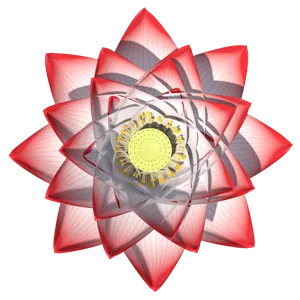
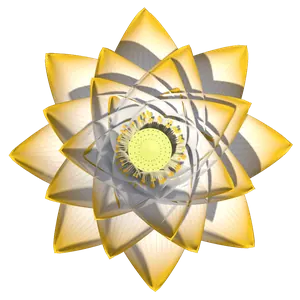
Lotus dourada: caixa de voz e botão flutuante sempre na cor dourada
Claude-Session: https://claude.ai/code/session_01XJ8bKKm3arNhAerQKpBbQ5

Changed region(s): [[0.03, 0.03, 0.99, 0.99]]

diff --git a/src/components/LotusFlower.js b/src/components/LotusFlower.js
@@ -16,8 +16,8 @@ const NUDGE_Y = -24; // um pouco mais para cima
 
 // Cores da flor conforme o assunto da conversa.
 export const MOODS = {
-  // Padrão: a Lotus vermelha com o miolo amarelo.
-  padrao: { back: '#C62828', mid: '#E53935', front: '#FF8A80', center: '#FFE1DE', shineBack: 'rgba(255,170,160,0.5)', shineMid: 'rgba(255,215,210,0.7)', glow: 'rgba(248,113,113,0.30)', seed: '#FFF1C1', icon: '#C62828' },
+  // Padrão: a Lotus dourada (escolhida pelo Evandro), sempre nessa cor.
+  padrao: { back: '#B8860B', mid: '#D4A017', front: '#F5D272', center: '#FFF5D6', shineBack: 'rgba(255,230,160,0.55)', shineMid: 'rgba(255,245,210,0.75)', glow: 'rgba(253,210,100,0.30)', seed: '#FFFFFF', icon: '#A8790A' },
   agro: { back: '#2E9E62', mid: '#4CBF7E', front: '#A7E8BF', center: '#E6F9EE', shineBack: 'rgba(190,240,205,0.55)', shineMid: 'rgba(225,250,232,0.7)', glow: 'rgba(110,231,160,0.24)', seed: '#FDE7A8', icon: '#1E7A48' },
   sos: { back: '#C62828', mid: '#E53935', front: '#FF8A80', center: '#FFE1DE', shineBack: 'rgba(255,170,160,0.5)', shineMid: 'rgba(255,215,210,0.7)', glow: 'rgba(248,113,113,0.30)', seed: '#FFF1C1', icon: '#C62828' },
   shop: { back: '#B8860B', mid: '#D4A017', front: '#F5D272', center: '#FFF5D6', shineBack: 'rgba(255,230,160,0.55)', shineMid: 'rgba(255,245,210,0.75)', glow: 'rgba(253,210,100,0.30)', seed: '#FFFFFF', icon: '#A8790A' },
@@ -280,7 +280,7 @@ export function FlyingPetal({ trigger, from, to, color = '#F29BBE' }) {
   );
 }
 
-// Botão flutuante da Lotus (canto inferior direito): só a flor vermelha de miolo amarelo, sem
+// Botão flutuante da Lotus (canto inferior direito): só a flor dourada, sem
 // fundo, que funciona como microfone. Entreaberta e respirando devagar em repouso; abre inteira
 // quando o mãos livres está ouvindo o "abrir Lotus" ou a caixa de voz está aberta.
 export function LotusMic({ hearing, open }) {

diff --git a/src/screens/VoiceAssistant.js b/src/screens/VoiceAssistant.js
@@ -821,7 +821,8 @@ export default function VoiceAssistant({ visible, onClose, initialCommand, hands
 
   const translateY = enter.interpolate({ inputRange: [0, 1], outputRange: [36, 0] });
   const last = history[0];
-  const mood = moodOf(last);
+  // A Lotus fica sempre dourada (a cor não muda mais com o assunto).
+  const mood = 'padrao';
   const win = Dimensions.get('window');
 
   return (

diff --git a/App.js b/App.js
@@ -298,7 +298,7 @@ function Shell() {
         activeOpacity={0.85}
         accessibilityLabel="Falar com a Lotus"
       >
-        {/* A Lotus é o microfone: só a flor vermelha de miolo amarelo, sem fundo. */}
+        {/* A Lotus é o microfone: só a flor dourada, sem fundo. */}
         <LotusMic hearing={state.handsFree && hearing} open={voice} />
       </TouchableOpacity>
 

diff --git a/tools/lotus3d/gen.py b/tools/lotus3d/gen.py
@@ -1,5 +1,5 @@
 import json, math, subprocess, os
-moods={'padrao':('#FFF2F0','#D3262B','#F6E3B4'),'agro':('#F6FFF4','#3FA862','#E9F0B8'),'sos':('#FFF2F0','#D3262B','#F6E3B4'),'shop':('#FFFBEF','#D9A21B','#F8EDB0')}
+moods={'padrao':('#FFFBEF','#D9A21B','#F8EDB0'),'agro':('#F6FFF4','#3FA862','#E9F0B8'),'sos':('#FFF2F0','#D3262B','#F6E3B4'),'shop':('#FFFBEF','#D9A21B','#F8EDB0')}
 jobs=[]
 os.makedirs('raw',exist_ok=True)
 for m,(body,tip,base) in moods.items():
@@ -10,5 +10,5 @@ for m,(body,tip,base) in moods.items():
         a=2*math.pi*i/6
         jobs.append({'f':f'raw/{m}_idle_{i:02d}.png','o':{'b':1-0.035*(1-math.cos(a)),'pad':False,'elev':90,'dist':5.2,'target':0.2,'rot':2.5*math.sin(a),'body':body,'tip':tip,'base':base,'gold':False}})
 for i,b in enumerate([0.55,1.0]):
-    jobs.append({'f':f'raw/fab_{i}.png','o':{'b':b,'pad':False,'elev':90,'dist':5.2,'target':0.2,'body':'#FFF2F0','tip':'#D3262B','base':'#F6E3B4','gold':False}})
+    jobs.append({'f':f'raw/fab_{i}.png','o':{'b':b,'pad':False,'elev':90,'dist':5.2,'target':0.2,'body':'#FFFBEF','tip':'#D9A21B','base':'#F8EDB0','gold':False}})
 open('jobs.json','w').write(json.dumps(jobs))
